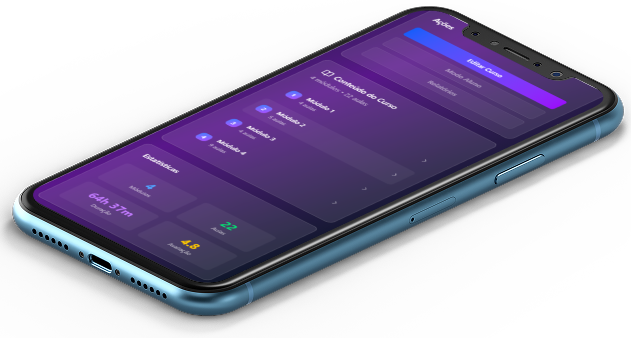
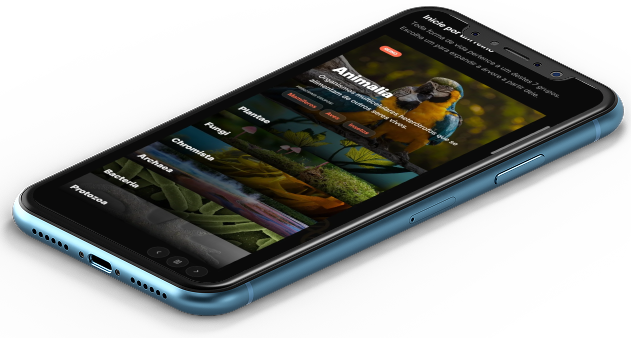
feat: add treevera project

diff --git a/src/utils/works.ts b/src/utils/works.ts
@@ -21,13 +21,13 @@ export const works = [
     appLink: 'https://iigorfelipe.github.io/e-commerce/',
   },
   {
-    title: 'Plataforma de Cursos',
+    title: 'Treevera',
     description:
-      'Plataforma de criação e gerenciamento de cursos com interface moderna, responsiva e recursos interativos.',
+      'Plataforma interativa para explorar a árvore da vida, com taxonomia, espécies, fotos, mapas, conservação e desafios.',
     desktopImg: WORK_7,
     mobileImg: WORK_7_MOBILE,
-    githubLink: 'https://github.com/iigorfelipe/course-plataform',
-    appLink: 'https://course-plataform-xi.vercel.app/',
+    githubLink: 'https://github.com/iigorfelipe/treevera',
+    appLink: 'https://treevera.org/',
   },
   {
     title: 'Tree View',

diff --git a/src/assets/index.ts b/src/assets/index.ts
@@ -32,7 +32,7 @@ import WORK_4 from './work-4.jpg';
 import WORK_5 from './work-5.jpg';
 import WORK_6 from './work-6.jpg';
 import WORK_6_MOBILE from './work-6-mobile.png';
-import WORK_7 from './work-7.jpg';
+import WORK_7 from './work-7.png';
 import WORK_7_MOBILE from './work-7-mobile.png';
 
 // logos
